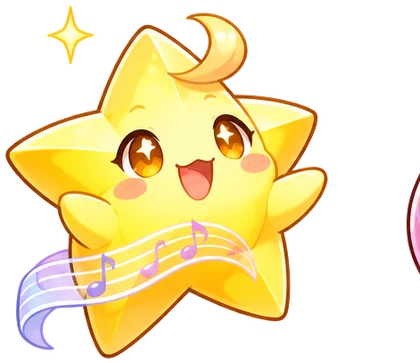
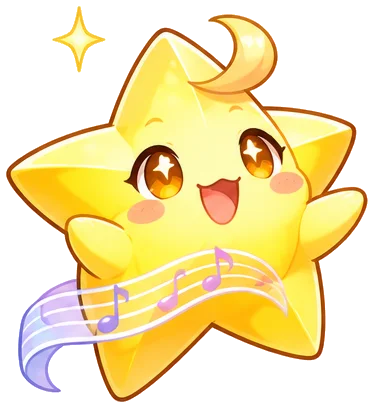
なかまを36ひきに（島のぬし・コツコツ・チャレンジ）・もうすぐ会えるなかま・いっしょにつれていく

diff --git a/docs/index.html b/docs/index.html
@@ -13,7 +13,7 @@
 <link rel="manifest" href="manifest.json">
 <link rel="icon" href="icon-192.png">
 <link rel="apple-touch-icon" href="icon-192.png">
-<link rel="preload" as="image" href="img/key.webp?v=2">
+<link rel="preload" as="image" href="img/key.webp?v=3">
 <link rel="preconnect" href="https://fonts.googleapis.com">
 <link rel="preconnect" href="https://fonts.gstatic.com" crossorigin>
 <link href="https://fonts.googleapis.com/css2?family=BIZ+UDPGothic:wght@400;700&family=Zen+Maru+Gothic:wght@700;900&display=swap" rel="stylesheet">
@@ -96,8 +96,8 @@ input{font-family:var(--fb);font-size:inherit}
 #splash{position:fixed;inset:0;z-index:50;overflow:hidden;background:#47b8ef;transition:opacity .6s, transform .6s;text-align:center}
 #splash.out{opacity:0;transform:scale(1.04);pointer-events:none}
 #splash .kv{position:absolute;inset:0}
-#splash .kv::before{content:"";position:absolute;inset:-40px;background:url(img/key.webp?v=2) center/cover;filter:blur(18px) saturate(1.1)}
-#splash .kv::after{content:"";position:absolute;inset:0;background:url(img/key.webp?v=2) center bottom/contain no-repeat}
+#splash .kv::before{content:"";position:absolute;inset:-40px;background:url(img/key.webp?v=3) center/cover;filter:blur(18px) saturate(1.1)}
+#splash .kv::after{content:"";position:absolute;inset:0;background:url(img/key.webp?v=3) center bottom/contain no-repeat}
 @media (max-aspect-ratio:3/4){#splash .kv::before{filter:none;inset:0;background-position:center 85%}#splash .kv::after{display:none}}
 #splash .sptop{position:absolute;left:0;right:0;top:max(5vh, env(safe-area-inset-top));display:flex;flex-direction:column;align-items:center;gap:1.4vh;padding:0 16px}
 #splash .ribbon{font-family:var(--fj);font-weight:900;color:#fff;font-size:clamp(17px,2.6vh,28px);padding:.25em 1.3em;border-radius:14px;background:linear-gradient(180deg,#ff6b6b,#e63950);
@@ -483,6 +483,43 @@ input{font-family:var(--fb);font-size:inherit}
   #splash .ribbon{font-size:clamp(17px,3.6vh,36px)}
   #splash .tag{font-size:clamp(16px,3.4vh,34px)}
 }
+/* ずかん・つぎの なかま */
+img.sil{filter:brightness(0) opacity(.22)}
+.zhead{background:#fff;border-radius:24px;box-shadow:var(--shadow);padding:14px 18px;border:4px solid #ffe08a;display:grid;gap:8px}
+.zcount b{font-family:var(--fj);font-weight:900;font-size:2em;color:#b07d00}
+.zcount small{font-family:var(--fj);font-weight:700;color:var(--ink2)}
+.zbuddy{display:flex;align-items:center;gap:10px;font-size:.85em;color:var(--ink2)}
+.zbuddy img{width:52px;height:52px;object-fit:contain;animation:bob 2.6s ease-in-out infinite}
+.znext{margin-top:16px}
+.znrow{display:grid;grid-template-columns:repeat(3,1fr);gap:10px}
+.nfcard{background:linear-gradient(180deg,#eef6ff,#fff);border-radius:20px;border:3px dashed #9ccbf0;padding:10px 8px;display:flex;flex-direction:column;align-items:center;gap:4px;text-align:center}
+.nfcard img{width:70px;height:70px;object-fit:contain}
+.nfcard small{font-size:.72em;line-height:1.35;color:#24527a;font-family:var(--fj);font-weight:700}
+.nfcard .xpbar{width:90%}
+.fcard{position:relative}
+.fcard .fart img{width:100%;height:100%;object-fit:contain}
+.fcard .xpbar{width:86%;margin-top:4px}
+.fcard.buddy{border-color:var(--sun);box-shadow:var(--shadow),0 0 0 4px rgba(255,197,49,.5)}
+.btag{position:absolute;top:8px;right:8px;background:var(--sun);color:#3d2a00;font-family:var(--fj);font-weight:900;font-size:.7em;padding:.05em .6em;border-radius:99px}
+.btoast{position:fixed;left:50%;bottom:24px;transform:translateX(-50%);z-index:80;display:flex;align-items:center;gap:10px;background:#fff;border-radius:99px;padding:6px 18px 6px 8px;box-shadow:0 10px 30px rgba(0,0,0,.2);font-family:var(--fj);font-weight:900;animation:fadeUp .3s}
+.btoast img{width:48px;height:48px;object-fit:contain}
+/* ホームの つぎの なかま */
+.nextfr{display:flex;align-items:center;gap:12px;width:100%;text-align:left;background:#fff;border-radius:24px;box-shadow:var(--shadow);border:4px dashed #9ccbf0;padding:10px 14px}
+.nextfr img{width:72px;height:72px;object-fit:contain;flex:0 0 auto}
+.nextfr .nt{flex:1;min-width:0}
+.nextfr b{display:block;font-family:var(--fj);font-weight:900;font-size:1.02em;color:#24527a}
+.nextfr small{display:block;font-size:.8em;color:var(--ink2);line-height:1.4}
+.nextfr .xpbar{margin-top:6px}
+.hero-buddy{position:absolute;z-index:2;width:24%;max-width:130px;left:6%;top:36%;filter:drop-shadow(0 8px 8px rgba(0,0,0,.25));animation:bob 2.8s ease-in-out infinite reverse}
+@media (max-width:520px){.znrow{gap:6px}.nfcard img{width:56px;height:56px}}
+.manyf{display:grid;grid-template-columns:repeat(auto-fill,minmax(84px,1fr));gap:8px;margin:6px 0 10px;max-height:46dvh;overflow:auto}
+.manyf div{display:flex;flex-direction:column;align-items:center;text-align:center}
+.manyf img{width:72px;height:72px;object-fit:contain;animation:pop .5s cubic-bezier(.2,1.6,.4,1) both}
+.manyf small{font-family:var(--fj);font-weight:700;font-size:.72em;line-height:1.3}
+.zukan .sechd{flex-direction:column;align-items:flex-start;gap:2px}
+.zukan .sechd b{white-space:nowrap}
+.btoast{white-space:nowrap;max-width:94vw}
+.btoast span{overflow:hidden;text-overflow:ellipsis}
 
 </style>
 </head>
@@ -2677,6 +2714,7 @@ function homeScreen() {
     const hero = h('div', { class: 'hero', style: `--bg:url(${artUrl('key')})` },
       h('div', { class: 'hero-bubble', html: greet }),
       h('img', { class: 'hero-pitch bob', src: artUrl('f_pitch'), alt: 'ピッチ' }),
+      buddyOf(me) ? h('img', { class: 'hero-buddy', src: artUrl('f_' + buddyOf(me).id), alt: buddyOf(me).name }) : null,
       nx ? h('img', { class: 'hero-isl', src: artUrl('isl_' + nx.island.id), alt: '' }) : null,
       h('div', { class: 'hero-foot' },
         prof,
@@ -2689,6 +2727,11 @@ function homeScreen() {
       h('img', { src: artUrl('f_hoshi'), alt: '' }),
       h('div', { class: 'qt' }, h('b', null, 'きょうの チャレンジ'), h('small', null, done ? 'きょうは できた！ もう一回 やっても いいよ' : 'ぜんぶの島から 5問。毎日 やると なかまが ふえるよ')),
       h('span', { class: 'go' }, done ? 'できた' : 'いく！'));
+    const nf = nextFriends(me, 1)[0];
+    const nextfr = nf ? h('button', { class: 'nextfr', onclick: tap(() => friendDialog(nf.f)) },
+      h('img', { class: 'sil', src: artUrl('f_' + nf.f.id), alt: '' }),
+      h('div', { class: 'nt' }, h('b', null, 'もうすぐ 会える なかま'), h('small', null, nf.lab(nf.rest) + 'で 会えるよ'),
+        h('div', { class: 'xpbar slim' }, h('i', { style: { width: (nf.r * 100) + '%' } })))) : null;
     const tiles = h('div', { class: 'tiles' },
       h('button', { class: 'tile', onclick: tap(friendsScreen) },
         h('div', { class: 'tstack' }, ['f_doremin', 'f_tantan', 'f_kenba'].map(n => h('img', { src: artUrl(n), alt: '' }))),
@@ -2718,7 +2761,7 @@ function homeScreen() {
     const wrap = h('div', { class: 'wrap', style: { maxWidth: '1200px' } });
     const world = use3d ? h('div', { class: 'world' }, h('div', { class: 'hint3d' }, '島を タップ！ ゆびで うごかすと 見まわせるよ')) : null;
     wrap.append(...[
-      h('div', { class: 'homegrid' }, hero, h('div', { class: 'side' }, quest, tiles)),
+      h('div', { class: 'homegrid' }, hero, h('div', { class: 'side' }, quest, nextfr, tiles)),
       world ? h('div', { class: 'sechd' }, h('b', null, '3Dの 島'), h('small', null, 'ゆびで まわせるよ')) : null,
       world,
       h('div', { class: 'sechd' }, h('b', null, '島の 地図'), h('small', null, `★ ${total}`)),
@@ -2918,6 +2961,7 @@ function practice(st, scr, body) {
       else if (stars <= before) { bonus = 5; per = Math.round(per / 4); } // ★が ふえない くり返しは ちょっとだけ
       Store.setStars(st.id, stars);
     }
+    me.bestCombo = Math.max(me.bestCombo || 0, state.best); // れんぞく せいかいの さいこう（なかまの 条件）
     const xpRes = addXP(per + bonus);
     queueCele(checkFriends().map(f => ({ type: 'friend', id: f.id })));
     if (xpRes.rankUp) queueCele([{ type: 'rank', name: rankProgress(xpRes.after).name }], true);
@@ -2931,9 +2975,9 @@ function practice(st, scr, body) {
     const rp0 = rankProgress(xpRes.before), rp1 = rankProgress(xpRes.after);
     const bar = h('i', { style: { width: (rp0.r === rp1.r ? rp0.pct * 100 : 0) + '%' } });
     const xpNum = h('b', null, '+0');
-    const fid = ISLAND_FRIEND[isl.id];
+    const bdy = buddyOf(Store.me), fid = bdy ? bdy.id : ISLAND_FRIEND[isl.id];
     wrap.appendChild(h('div', { class: 'card center result', style: { maxWidth: '640px', margin: '3vh auto 0' } },
-      h('div', { class: 'res-cast' }, h('img', { class: 'jump', src: artUrl('f_pitch'), alt: '' }), fid && !st.daily ? h('img', { class: 'jump d2', src: artUrl('f_' + fid), alt: '', style: Store.me && Store.me.friends && Store.me.friends[fid] ? '' : 'display:none' }) : null),
+      h('div', { class: 'res-cast' }, h('img', { class: 'jump', src: artUrl('f_pitch'), alt: '' }), fid && (bdy || !st.daily) && hasF(Store.me, fid) ? h('img', { class: 'jump d2', src: artUrl('f_' + fid), alt: '' }) : null),
       h('div', { class: 'h1' }, msg),
       h('div', { class: 'result-stars' }, [0, 1, 2].map(k => svgEl(starSvg(k < stars)))),
       h('div', { class: 'muted' }, `${n}問中 ${state.firstOk}問 一回で せいかい` + (state.best >= 3 ? `　さいこう ${state.best}れんぞく！` : '')),
@@ -3893,7 +3937,7 @@ async function celebrate(list) {
    前の SVG の絵（guideSvg・friendSvg・islandArt・splashArt）を、描いた絵に おきかえる。
    どれも「<svg>の中に<image>」を返すので、今までの使い方（svgEl・.replace('<svg ', …)）のまま動く。
    絵は _作り直し用/画像/元絵 → cut_art.py → docs/img/*.webp */
-const ART_V = 2;
+const ART_V = 3;
 let artSeq = 0;
 function artUrl(n) { return 'img/' + n + '.webp?v=' + ART_V; }
 function imgSvg(n, opt) {
@@ -3927,6 +3971,145 @@ function logoEl(text, cls) {
   const el = h('div', { class: 'logo3 ' + (cls || '') });
   [...text].forEach((c, i) => el.appendChild(h('span', { style: `--c:${cols[i % cols.length]};animation-delay:${(i * 0.05).toFixed(2)}s` }, c)));
   return el;
+}
+
+/* ===== なかまを ふやす（2026-11-24）：12ひき → 36ひき =====
+   ・どの なかまも「学びが すすむと」なかまに なる（同じことの くり返しだけでは ふえない）
+   ・prog(m) で「あと どれだけか」を出し、ホームの「つぎの なかま」と ずかんに 見せる */
+const nIslDone = (m, i) => { const isl = ISLANDS[i]; if (!isl) return [0, 1]; const core = isl.stages.filter(s => !s.extra); return [core.filter(s => cleared(m, s.id)).length, core.length]; };
+const nDays = m => Object.keys((m && m.days) || {}).length;
+const nClear = m => ALL_STAGES.filter(s => cleared(m, s.id)).length;
+const nPerfect = m => ALL_STAGES.filter(s => ((m && m.stars[s.id]) || 0) >= 3).length;
+const nKyo = m => ALL_STAGES.filter(s => /^9-/.test(s.id) && cleared(m, s.id)).length;
+const STAR_MAX = () => ALL_STAGES.length * 3;
+const islFriend = (id, name, idx, say) => ({ id, name, group: 'nushi', how: `「${ISLANDS[idx] ? ISLANDS[idx].name : ''}」の ステージを ぜんぶ クリア`, cond: m => { const [a, b] = nIslDone(m, idx); return a >= b; }, prog: m => { const [a, b] = nIslDone(m, idx); return [a, b, r => `ステージを あと ${r}つ`]; }, say });
+const NEW_FRIENDS = [
+  islFriend('gamego', 'トオンガメ', 0, 'ト音記号は ぼくの せなかと 同じ形'),
+  islFriend('yasumi', 'ヤスミフクロウ', 1, '休符も 音楽の なかまだホー'),
+  islFriend('hamokani', 'ハモニカニ', 2, 'けんばんは チョキで ひくカニ！'),
+  islFriend('fueyagi', 'フエヤギ', 3, 'あなを しっかり ふさいでね'),
+  islFriend('kasen', 'カセンリュウ', 4, '線を こえても こわくないよ'),
+  islFriend('sharpen', 'シャープペンギン', 5, '♯で 半音 上がるペン！'),
+  islFriend('kikimimi', 'キキミミギツネ', 6, '耳を すませば 聞こえるよ'),
+  islFriend('takara', 'タカラドラゴン', 7, 'いちばんの たからは 読める力だ'),
+  islFriend('utahon', 'ウタノホン', 8, 'みんなの 歌が つまっているよ'),
+  { id: 'hiyoko', name: 'チリンヒヨコ', group: 'koko', how: '「きょうの チャレンジ」を 1日', cond: m => nDays(m) >= 1, prog: m => [nDays(m), 1, r => 'きょうの チャレンジを 1回'], say: 'チリン！ きょうも はじまるよ' },
+  { id: 'tsukikurage', name: 'ツキクラゲ', group: 'koko', how: '「きょうの チャレンジ」を 10日', cond: m => nDays(m) >= 10, prog: m => [nDays(m), 10, r => `チャレンジを あと ${r}日`], say: 'まいにち 少しずつが いちばん' },
+  { id: 'nijitatsu', name: 'ニジタツ', group: 'koko', how: '「きょうの チャレンジ」を 20日', cond: m => nDays(m) >= 20, prog: m => [nDays(m), 20, r => `チャレンジを あと ${r}日`], say: 'つづけた きみに にじを あげる' },
+  { id: 'hitode', name: 'オンプヒトデ', group: 'koko', how: '★を 10こ あつめる', cond: m => starTotal(m) >= 10, prog: m => [starTotal(m), 10, r => `★を あと ${r}こ`], say: 'ぼくの うでは 5本、五線も 5本！' },
+  { id: 'panda', name: 'ドンドンパンダ', group: 'koko', how: '★を 60こ あつめる', cond: m => starTotal(m) >= 60, prog: m => [starTotal(m), 60, r => `★を あと ${r}こ`], say: 'ドンドン いこう！' },
+  { id: 'metro', name: 'メトロン', group: 'koko', how: '★を 100こ あつめる', cond: m => starTotal(m) >= 100, prog: m => [starTotal(m), 100, r => `★を あと ${r}こ`], say: 'カチ・カチ・カチ… はやさは ぼくに まかせて' },
+  { id: 'goldpitch', name: 'ゴールドピッチ', group: 'koko', how: 'ぜんぶの ステージで ★3つ', cond: m => starTotal(m) >= STAR_MAX(), prog: m => [starTotal(m), STAR_MAX(), r => `★を あと ${r}こ`], say: 'きみは ほんものの ふよみマスター！' },
+  { id: 'iruka', name: 'イルカの ソラ', group: 'chal', how: '1つの ステージで 8問 れんぞく 一回で せいかい', cond: m => (m.bestCombo || 0) >= 8, prog: m => [Math.min(m.bestCombo || 0, 8), 8, r => `れんぞく せいかいを あと ${r}問`], say: 'ジャンプの いきおいで 読もう！' },
+  { id: 'bachi', name: 'バチバチ', group: 'chal', how: '★3つの ステージを 10こ', cond: m => nPerfect(m) >= 10, prog: m => [nPerfect(m), 10, r => `★3つの ステージを あと ${r}こ`], say: 'かんぺき！ ジャーン！' },
+  { id: 'kumo', name: 'ポロンぐも', group: 'chal', how: 'ステージを 20こ クリア', cond: m => nClear(m) >= 20, prog: m => [nClear(m), 20, r => `ステージを あと ${r}こ クリア`], say: '音符の 雨を ふらせるよ' },
+  { id: 'orgel', name: 'オルゴールネズミ', group: 'chal', how: '「うたの図書館」で 3つの 学年を クリア', cond: m => nKyo(m) >= 3, prog: m => [nKyo(m), 3, r => `うたの図書館を あと ${r}つ`], say: 'ねじを まくと 歌いだすよ' },
+  { id: 'kujaku', name: 'ヘオンクジャク', group: 'chal', how: '「ヘ音記号」（先どり）を クリア', cond: m => cleared(m, '6-6'), prog: m => [cleared(m, '6-6') ? 1 : 0, 1, r => '「ヘ音記号」を クリア'], say: 'ひくい音は まかせて' },
+  { id: 'tako', name: 'ハチロクタコ', group: 'chal', how: '「8分の6拍子」（先どり）を クリア', cond: m => cleared(m, '5-8'), prog: m => [cleared(m, '5-8') ? 1 : 0, 1, r => '「8分の6拍子」を クリア'], say: 'イチ・ニ・サン、シ・ゴ・ロク♪' },
+  { id: 'risu', name: 'バイオリンリス', group: 'chal', how: 'ランク「島の 音楽家」に なる', cond: m => rankOf(m.xp || 0) >= 3, prog: m => [m.xp || 0, RANKS[3].xp, r => `けいけんちを あと ${r}`], say: 'しっぽで ひく バイオリンだよ' },
+  { id: 'phoenix', name: 'ファンファ', group: 'chal', how: 'ランク「しまの マエストロ」に なる', cond: m => rankOf(m.xp || 0) >= 5, prog: m => [m.xp || 0, RANKS[5].xp, r => `けいけんちを あと ${r}`], say: 'パパーン！ きみを たたえる ファンファーレ！' }
+];
+// はじめからの 12ひきにも「あと どれだけ」を つける
+const OLD_PROG = {
+  doremin: ['1-2'], tantan: ['2-1'], kenba: ['3-1'], fuelu: ['4-2'], tata: ['5-3'], forte: ['6-1'], mimi: ['7-1'], king: ['8-3']
+};
+FRIENDS.forEach(f => {
+  f.group = f.group || 'hajime';
+  if (OLD_PROG[f.id]) { const sid = OLD_PROG[f.id][0]; f.prog = m => [cleared(m, sid) ? 1 : 0, 1, r => f.how]; }
+  if (f.id === 'kuji') f.prog = m => [starTotal(m), 30, r => `★を あと ${r}こ`];
+  if (f.id === 'hoshi') f.prog = m => [nDays(m), 5, r => `チャレンジを あと ${r}日`];
+  if (f.id === 'kai') f.prog = m => [ISLANDS.map((_, i) => i).filter(i => islandCleared(m, i)).length, 3, r => `島を あと ${r}つ ぜんぶ クリア`];
+});
+FRIENDS.push(...NEW_FRIENDS);
+const FGROUPS = [['hajime', 'はじめの なかま', 'ステージを クリアすると 会える'], ['nushi', '島の ぬし', '島の ステージを ぜんぶ クリアすると 会える'], ['koko', 'コツコツの なかま', '★や 毎日の チャレンジで 会える'], ['chal', 'チャレンジの なかま', 'れんぞく せいかいや ランクで 会える']];
+ISLAND_FRIEND.i9 = 'utahon';
+const hasF = (m, id) => !!(m && m.friends && m.friends[id]);
+/* つぎに 会えそうな なかま（あと少しの じゅん） */
+function nextFriends(m, k) {
+  if (!m) return [];
+  return FRIENDS.filter(f => !hasF(m, f.id) && f.prog).map(f => { const [c, g, lab] = f.prog(m); return { f, c: Math.min(c, g), g, rest: Math.max(0, g - c), lab, r: g ? Math.min(c, g) / g : 0 }; })
+    .sort((a, b) => b.r - a.r || a.rest - b.rest).slice(0, k || 1);
+}
+/* いっしょに つれていく なかま */
+function buddyOf(m) { const id = m && m.buddy; return id && hasF(m, id) ? FRIENDS.find(f => f.id === id) : null; }
+function friendDialog(f) {
+  const me = Store.me; const has = hasF(me, f.id);
+  if (!has) {
+    const p = f.prog ? f.prog(me) : null;
+    const left = p ? `\n\nいま ${Math.min(p[0], p[1])} / ${p[1]}（${p[2](Math.max(0, p[1] - p[0]))}）` : '';
+    return dialog({ art: friendSvg(f, true).replace('<svg ', '<svg width="140" '), title: '？？？', text: 'なかまに なる 方法：\n' + f.how + left, buttons: [{ label: 'がんばる！', value: true, cls: 'sun' }] });
+  }
+  try { Audio2.note(72 + rnd(8), 0.3); } catch (e) { }
+  const isB = me.buddy === f.id;
+  return dialog({ art: friendSvg(f).replace('<svg ', '<svg width="170" class="bob" '), title: f.name, text: '「' + f.say + '」', buttons: isB ? [{ label: 'つれていくのを やめる', value: 'off', cls: 'ghost small' }, { label: 'とじる', value: true, cls: 'sun' }] : [{ label: 'いっしょに つれていく', value: 'on', cls: 'sun' }, { label: 'とじる', value: true, cls: 'ghost' }] })
+    .then(v => { if (v === 'on') { me.buddy = f.id; Store.save(); toastBuddy(f); } else if (v === 'off') { me.buddy = null; Store.save(); } if (v === 'on' || v === 'off') friendsScreen(); });
+}
+function toastBuddy(f) {
+  const t = h('div', { class: 'btoast' }, h('img', { src: artUrl('f_' + f.id), alt: '' }), h('span', null, `${f.name}と いっしょに ぼうけん！`));
+  document.body.appendChild(t); setTimeout(() => t.remove(), 2600);
+}
+/* ずかん（作り直し） */
+function friendsScreen() {
+  go(scr => {
+    scr.classList.add('zukan');
+    scr.appendChild(topBar('なかまずかん', { back: homeScreen }));
+    queueCele(checkFriends().map(f => ({ type: 'friend', id: f.id })));
+    setTimeout(flushCele, 600);
+    const me = Store.me || { friends: {}, stars: {} };
+    const n = FRIENDS.filter(f => hasF(me, f.id)).length;
+    const wrap = h('div', { class: 'wrap' });
+    const bd = buddyOf(me);
+    wrap.appendChild(h('div', { class: 'zhead' },
+      h('div', { class: 'zcount' }, h('b', null, n), h('small', null, ' / ' + FRIENDS.length + ' ひき')),
+      h('div', { class: 'xpbar' }, h('i', { style: { width: (n / FRIENDS.length * 100) + '%' } })),
+      h('div', { class: 'zbuddy' }, bd ? [h('img', { src: artUrl('f_' + bd.id), alt: '' }), h('span', null, `いっしょに いる なかま：${bd.name}`)] : h('span', null, 'なかまを タップすると「いっしょに つれていく」が えらべるよ'))));
+    const nx = nextFriends(me, 3);
+    if (nx.length) wrap.appendChild(h('div', { class: 'znext' }, h('div', { class: 'h2' }, 'もうすぐ 会える なかま'),
+      h('div', { class: 'znrow' }, nx.map(x => h('button', { class: 'nfcard', onclick: tap(() => friendDialog(x.f)) },
+        h('img', { src: artUrl('f_' + x.f.id), alt: '', class: 'sil' }),
+        h('small', null, x.lab(x.rest)),
+        h('div', { class: 'xpbar slim' }, h('i', { style: { width: (x.r * 100) + '%' } })))))));
+    FGROUPS.forEach(([gid, gname, gsub]) => {
+      const list = FRIENDS.filter(f => f.group === gid);
+      const got = list.filter(f => hasF(me, f.id)).length;
+      wrap.appendChild(h('div', { class: 'sechd' }, h('b', null, gname), h('small', null, `${got} / ${list.length}　${gsub}`)));
+      const grid = h('div', { class: 'fgrid' });
+      list.forEach(f => {
+        const has = hasF(me, f.id);
+        const p = !has && f.prog ? f.prog(me) : null;
+        grid.appendChild(h('button', { class: 'fcard' + (has ? '' : ' locked') + (me.buddy === f.id ? ' buddy' : ''), onclick: tap(() => friendDialog(f)) },
+          h('div', { class: 'fart' }, h('img', { src: artUrl('f_' + f.id), alt: '', loading: 'lazy', class: has ? '' : 'sil' })),
+          h('b', null, has ? f.name : '？？？'),
+          h('small', null, has ? f.say : f.how),
+          p && p[1] > 1 ? h('div', { class: 'xpbar slim' }, h('i', { style: { width: (Math.min(p[0], p[1]) / p[1] * 100) + '%' } })) : null,
+          me.buddy === f.id ? h('span', { class: 'btag' }, 'いっしょ') : null));
+      });
+      wrap.appendChild(grid);
+    });
+    scr.appendChild(h('div', { class: 'body' }, wrap));
+  });
+}
+
+/* なかまが いちどに 何びきも ふえたときは、1つの 画面に まとめて 見せる（前から使っている子が 開いたとき など） */
+async function flushCele() {
+  const me = Store.me; if (!me || celeBusy || !me.pending || !me.pending.length) return;
+  celeBusy = true;
+  try {
+    while (me.pending.length) {
+      let k = 0; while (k < me.pending.length && me.pending[k].type === 'friend') k++;
+      if (k >= 3) {
+        const fs = me.pending.splice(0, k).map(it => FRIENDS.find(f => f.id === it.id)).filter(Boolean); Store.save();
+        Audio2.fanfare(); confetti(70);
+        const grid = h('div', { class: 'manyf' }, fs.map(f => h('div', null, h('img', { src: artUrl('f_' + f.id), alt: '' }), h('small', null, f.name))));
+        await dialog({ title: `あたらしい なかまが ${fs.length}ひき！`, body: grid, text: 'ずかんで くわしく 見られるよ。', buttons: [{ label: 'やったー！', value: true, cls: 'sun big' }], outside: false });
+        continue;
+      }
+      const it = me.pending.shift(); Store.save();
+      const item = it.type === 'friend' ? { type: 'friend', f: FRIENDS.find(f => f.id === it.id) } : it;
+      if (item.type === 'friend' && !item.f) continue;
+      await celebrate([item]);
+    }
+  } finally { celeBusy = false; }
 }
 
 /* ===== 先生の画面 ===== */
